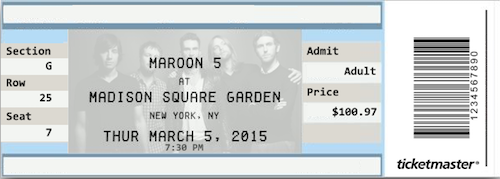
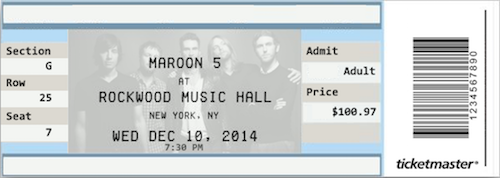
Modified concert page/ticket.png to reflect test

diff --git a/concert_page.html b/concert_page.html
@@ -42,8 +42,8 @@
             </div>
             <div class="col-md-9">
               <h1>Maroon 5</h1>
-              <p>Madison Square Garden, New York, NY</p>
-              <p>Thursday, March 5, 2015</p>
+              <p>Rockwood Music Hall, New York, NY</p>
+              <p>Wednesday, December 10, 2014</p>
               <p>7:30PM</p>
             </div>
           </div>
